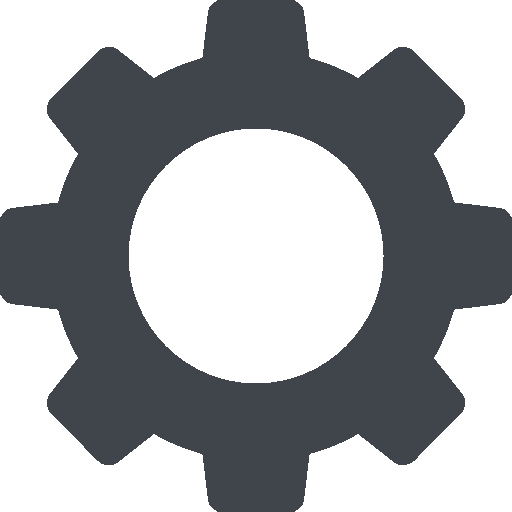
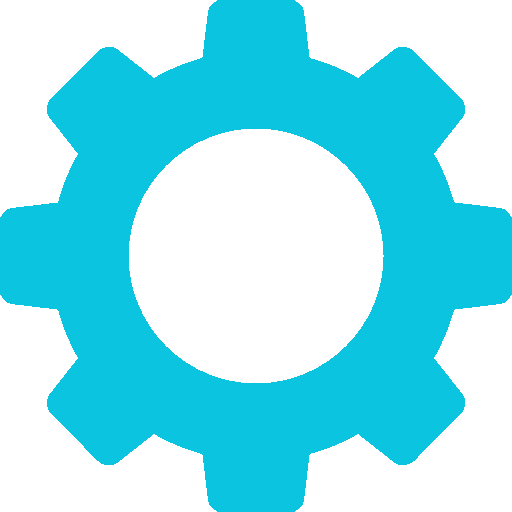
UI update

diff --git a/taskmanager/mainapp/static/mainapp/taskmanager.css b/taskmanager/mainapp/static/mainapp/taskmanager.css
@@ -6,21 +6,26 @@ Dark-Lighter : #40444b
 Text : #e8e8e9
 */
 
+/*
+Trello :
+gris: #e8e8e9
+blanc: #ffffff
+*/
+
 /* ---------- Général ---------- */
 html, body
 {
     height: 100%;
+    font-family: "Varela Round";
+    color: #e8e8e9
 }
 
 body
 {
-    background-color: #2f3136;
+    /*background-color: #2f3136;*/
+    background-image: url("./images/nor2.jpg");
+    background-size: cover;
     margin: 0px;
-}
-
-p, li
-{
-    color : #e8e8e9;
 }
 
 
@@ -36,10 +41,15 @@ p, li
 /* ---------- header ---------- */
 #header
 {
-    background-color: #202225;
+    background-color: rgba(12.5, 13.3, 14.5, 0.4);
     display: flex;
     flex-direction: row;
     justify-content: space-between;
+}
+
+#header p
+{
+    color: #e8e8e9;
 }
 
 #search_zone
@@ -58,6 +68,7 @@ p, li
 #search_zone input {
     padding: 6px;
     border: 2px solid #e8e8e9;
+    border-radius: 40px;
     font-size: 1em;
     background-color : #40444b;
     height: 1em;
@@ -65,7 +76,7 @@ p, li
     color : #e8e8e9;
     margin-top: 1em;
     margin-left: 2em;
-}
+}t'es déjà s
 
 #param_zone
 {
@@ -82,26 +93,37 @@ p, li
 
 #info
 {
-    background-image: url(./images/info.png);
+    background-image: url(./images/info_light.png);
 }
 
 #info:hover
 {
-    background-image: url(./images/info_light.png);
+    background-image: url(./images/info.png);
 }
 
 
 #gear
 {
-    background-image: url(./images/gear.png);
+    background-image: url(./images/gear_light.png);
 }
 
 #gear:hover
 {
-    background-image: url(./images/gear_light.png);
+    background-image: url(./images/gear.png);
 }
 
 /* ---------- Main ---------- */
+@keyframes scale-up {
+  0% {
+    -webkit-transform: scale(1);
+            transform: scale(1);
+  }
+  100% {
+    -webkit-transform: scale(1.02);
+            transform: scale(1.02);
+  }
+}
+
 #tasks
 {
     display: flex;
@@ -111,11 +133,21 @@ p, li
     height: 85%;
 }
 
+.task-title
+{
+    text-align: center;
+    font-size: 1.2em;
+    font-weight: bold;
+}
+
 .tasks
 {
     width: 33%;
-    background-color : #40444b;
+    background-color : rgba(25.1, 26.7, 29.4, 0.9);
     overflow-y:scroll;
+    border-radius: 0.5rem;
+    border-left: 0 solid #00ff99;
+    transition: border-left 300ms ease-in-out, padding-left 300ms ease-in-out;
 }
 
 .space
@@ -126,7 +158,9 @@ p, li
 .task
 {
     height: 6em;
-    background-color: #202225;
+    background-color: #2f3136;
+    border: solid 1px black;
+    border-radius: 10px;
     padding-right: 1em;
     padding-left: 1em;
     margin: 1em;
@@ -134,8 +168,18 @@ p, li
 
 .task:hover
 {
-    background-color: #2f3136;
+	animation: scale-up 0.4s both;
+	padding-left: 0.5rem;
+	border-left: 0.5rem solid #0bc4e0;
 
+}
+
+.task > :first-child {
+  margin-top: 0;
+}
+
+.task > :last-child {
+  margin-bottom: 0;
 }
 
 .task div

diff --git a/taskmanager/mainapp/templates/mainapp/update_task.html b/taskmanager/mainapp/templates/mainapp/update_task.html
@@ -8,20 +8,45 @@
 </head>
 <body>
     <form>
-        <h1>{{ task.client }} | {{ client.profession }}</h1>
-        {{ task.title }}<br/>
-        {{ task.description }}<br/>
-        {{ task.location }}<br/>
-        {{ task.startDate }}<br/>
-        {{ task.endDate }}<br/>
-        {{ task.status }}<br/>
-        {{ task.client }}<br/>
-        <select name="status" class="combo_status">
-            <option value="not_started">Pas commencée</option>
-            <option value="started">En cours</option>
-            <option value="finished">Terminée</option>
-        </select>
-        <input type="submit" name="Update Task">
+        <div id="main">
+            <div id="left">
+                <h1>{{ task.client }} | {{ task.title }}</h1>
+                <p>Description :</p>
+                <div id="description">{{ task.description }}</div>
+                <p>Lieu :</p>
+                <div id="location">{{ task.location }}</div>
+                <p>Notes :</p>
+                <form action="/action_page.php" id="usrform">
+                </form>
+                <textarea id="note" name="comment" form="usrform">{{ task.note }}</textarea>
+                <div id="buttons">
+                    <input class="btn" type="button" value="Confirmer">
+                    <input class="btn" type="button" value="Annuler" onclick="location.href='{% url 'taskmanager' %}'">
+                </div>
+            </div>
+            <div id="right">
+                <div id="info">
+                    <p>{{ client.name }}</p>
+                    <p>{{ client.profession }}</p>
+                    <p>{{ client.email }}</p>
+                    <p>{{ client.phone }}</p>
+                </div>
+                <p id="planif">Planification :</p>
+                <div id="date-picker">
+                    <label for="start">Du :</label>
+                    <input type="date" id="start" name="trip-start">
+
+                    <label id="labend" for="end">Au :</label>
+                    <input type="date" id="end" name="trip-end">
+                </div>
+                <p id="status">Status :</p>
+                <select name="status" class="combo_status">
+                    <option value="not_started">Pas commencée</option>
+                    <option value="started">En cours</option>
+                    <option value="finished">Terminée</option>
+                </select>
+            </div>
+        </div>
     </form>
 </body>
 </html>

diff --git a/taskmanager/mainapp/templates/mainapp/taskmanager.html b/taskmanager/mainapp/templates/mainapp/taskmanager.html
@@ -3,6 +3,7 @@
 <head>
     <meta charset="UTF-8">
     <title>Task Manager</title>
+    <link rel="stylesheet" type="text/css" href="//fonts.googleapis.com/css?family=Varela+Round" />
     {% load static %}
     <link rel="stylesheet" type="text/css" href="{% static 'mainapp/taskmanager.css' %}">
 </head>
@@ -20,6 +21,7 @@
 
     <div id="tasks">
         <section class="tasks">
+            <p class="task-title">Pas commencées</p>
             {% if tasks_not_started %}
                 {% for task in tasks_not_started %}
                     <article class="task" onclick="location.href='{% url 'update_task' task.id %}'">
@@ -41,6 +43,7 @@
         <span class="space"></span>
 
         <section class="tasks">
+            <p class="task-title">En cours</p>
             {% if tasks_started %}
                 {% for task in tasks_started %}
                     <article class="task">
@@ -62,6 +65,7 @@
         <span class="space"></span>
 
         <section class="tasks">
+            <p class="task-title">Terminées</p>
             {% if tasks_finished %}
                 {% for task in tasks_finished %}
                     <article class="task">

diff --git a/taskmanager/mainapp/static/mainapp/update.css b/taskmanager/mainapp/static/mainapp/update.css
@@ -9,11 +9,60 @@ Text : #e8e8e9
 body
 {
     background-color: #2f3136;
-    margin: 0px;
+    margin-left: 10em;
+    margin-right: 10em;
+    color: #e8e8e9;
+    font-weight: bold;
 }
 
-h1, p, li
+#main
 {
-    color : #e8e8e9;
+    display: flex;
+    flex-direction: row;
+    justify-content: space-between;
 }
 
+#description, #location, #note
+{
+    height: 10em;
+    padding: 1em;
+    background-color: #40444b;
+    overflow-y:scroll;
+    width: 100%
+}
+
+#left
+{
+    width: 60%;
+}
+
+#right
+{
+    line-height: 0.5;
+    margin-left: 10em;
+    margin-top: 10em;
+    width: 40%;
+}
+
+#info
+{
+    font-size: 1.2em;
+}
+
+#date-picker
+{
+    display: flex;
+    flex-direction: column;
+    line-height: 1;
+    width: 25%;
+}
+
+#labend
+{
+    margin-top: 1em;
+}
+
+#planif, #status
+{
+    margin-top: 6em;
+}
